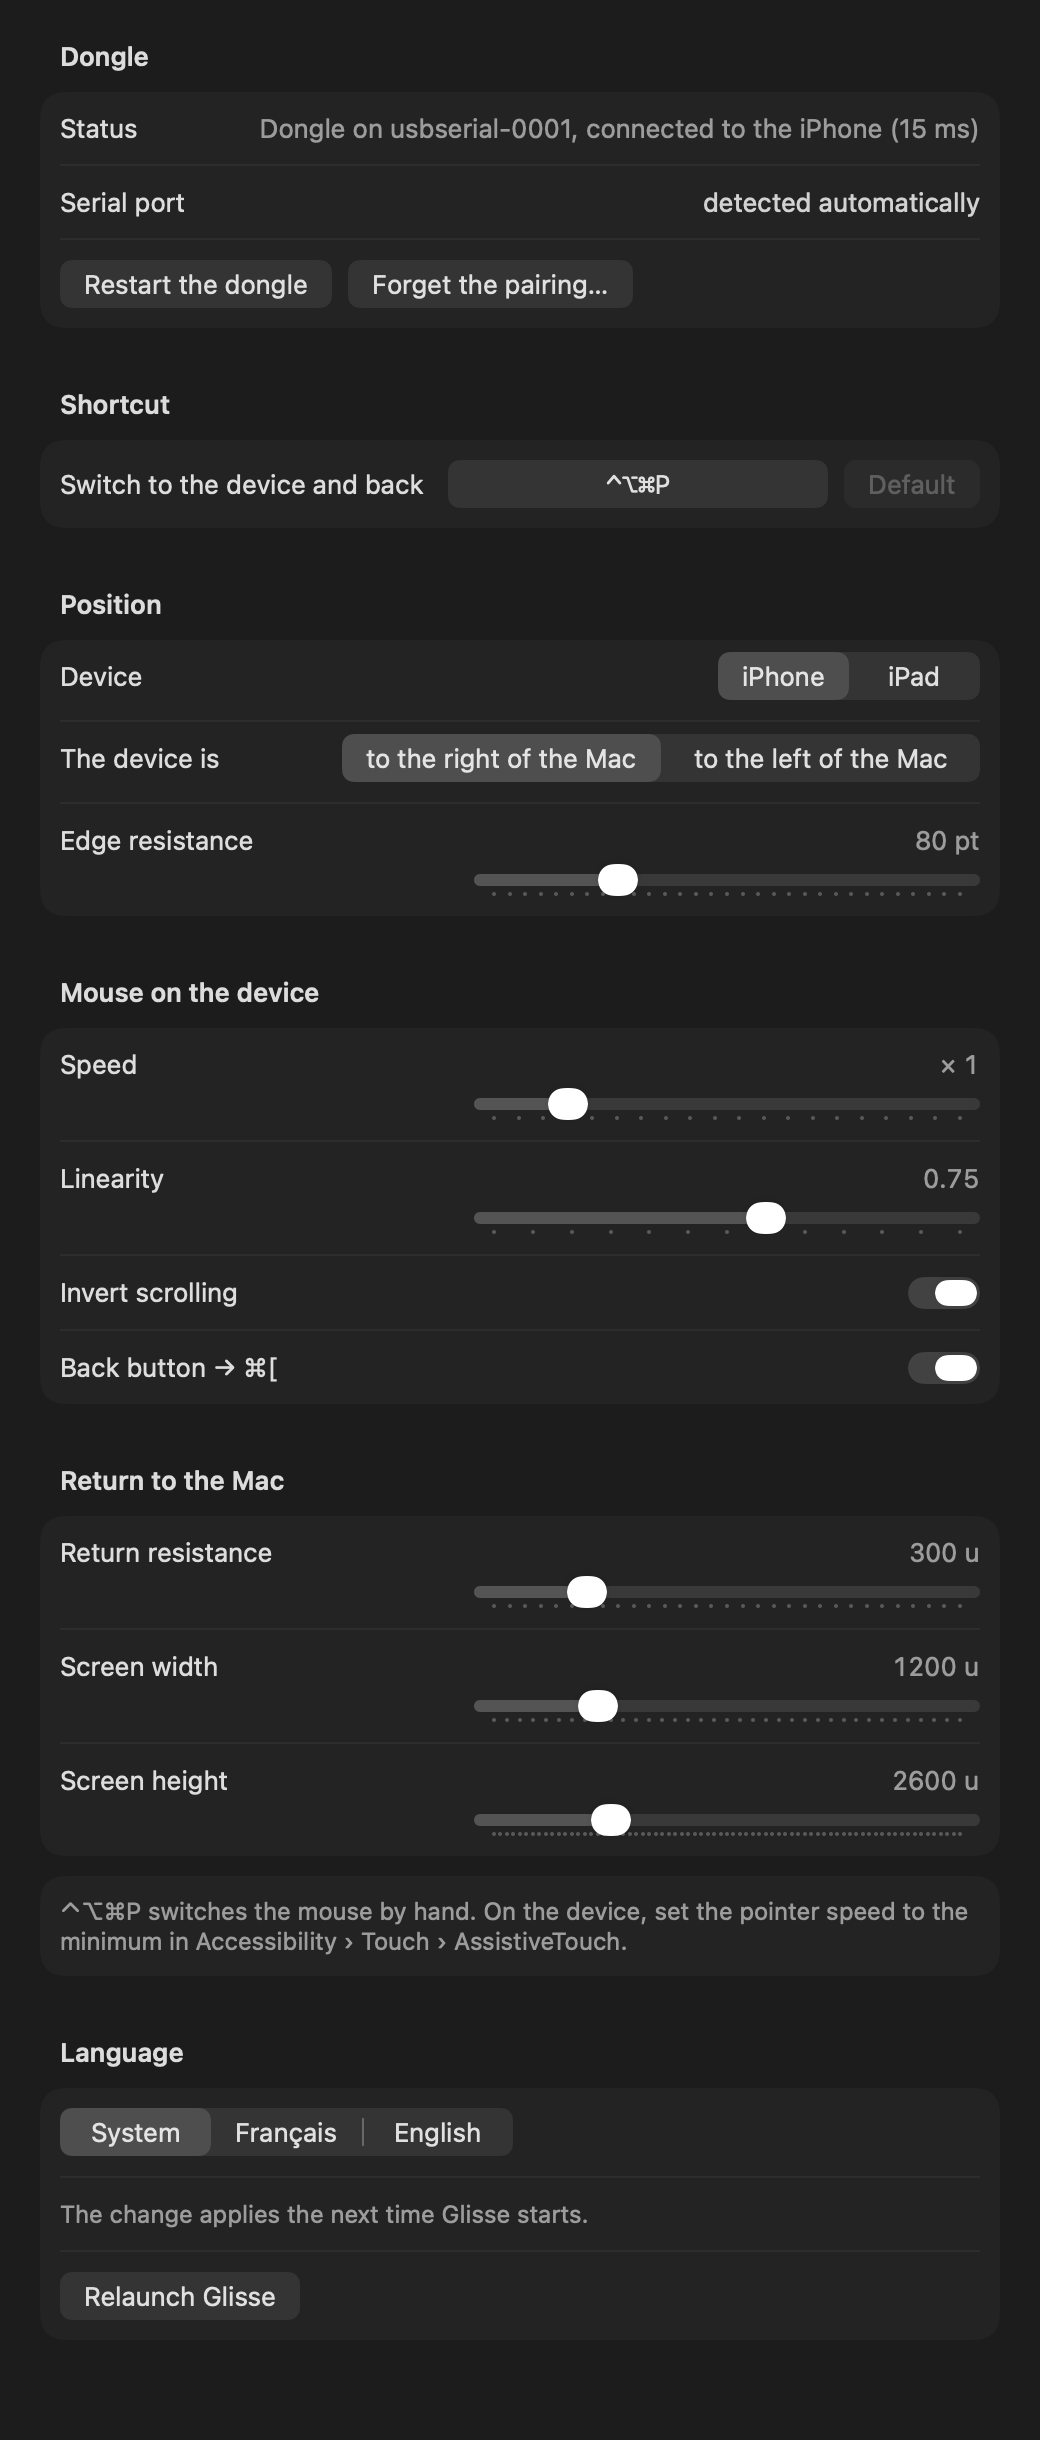
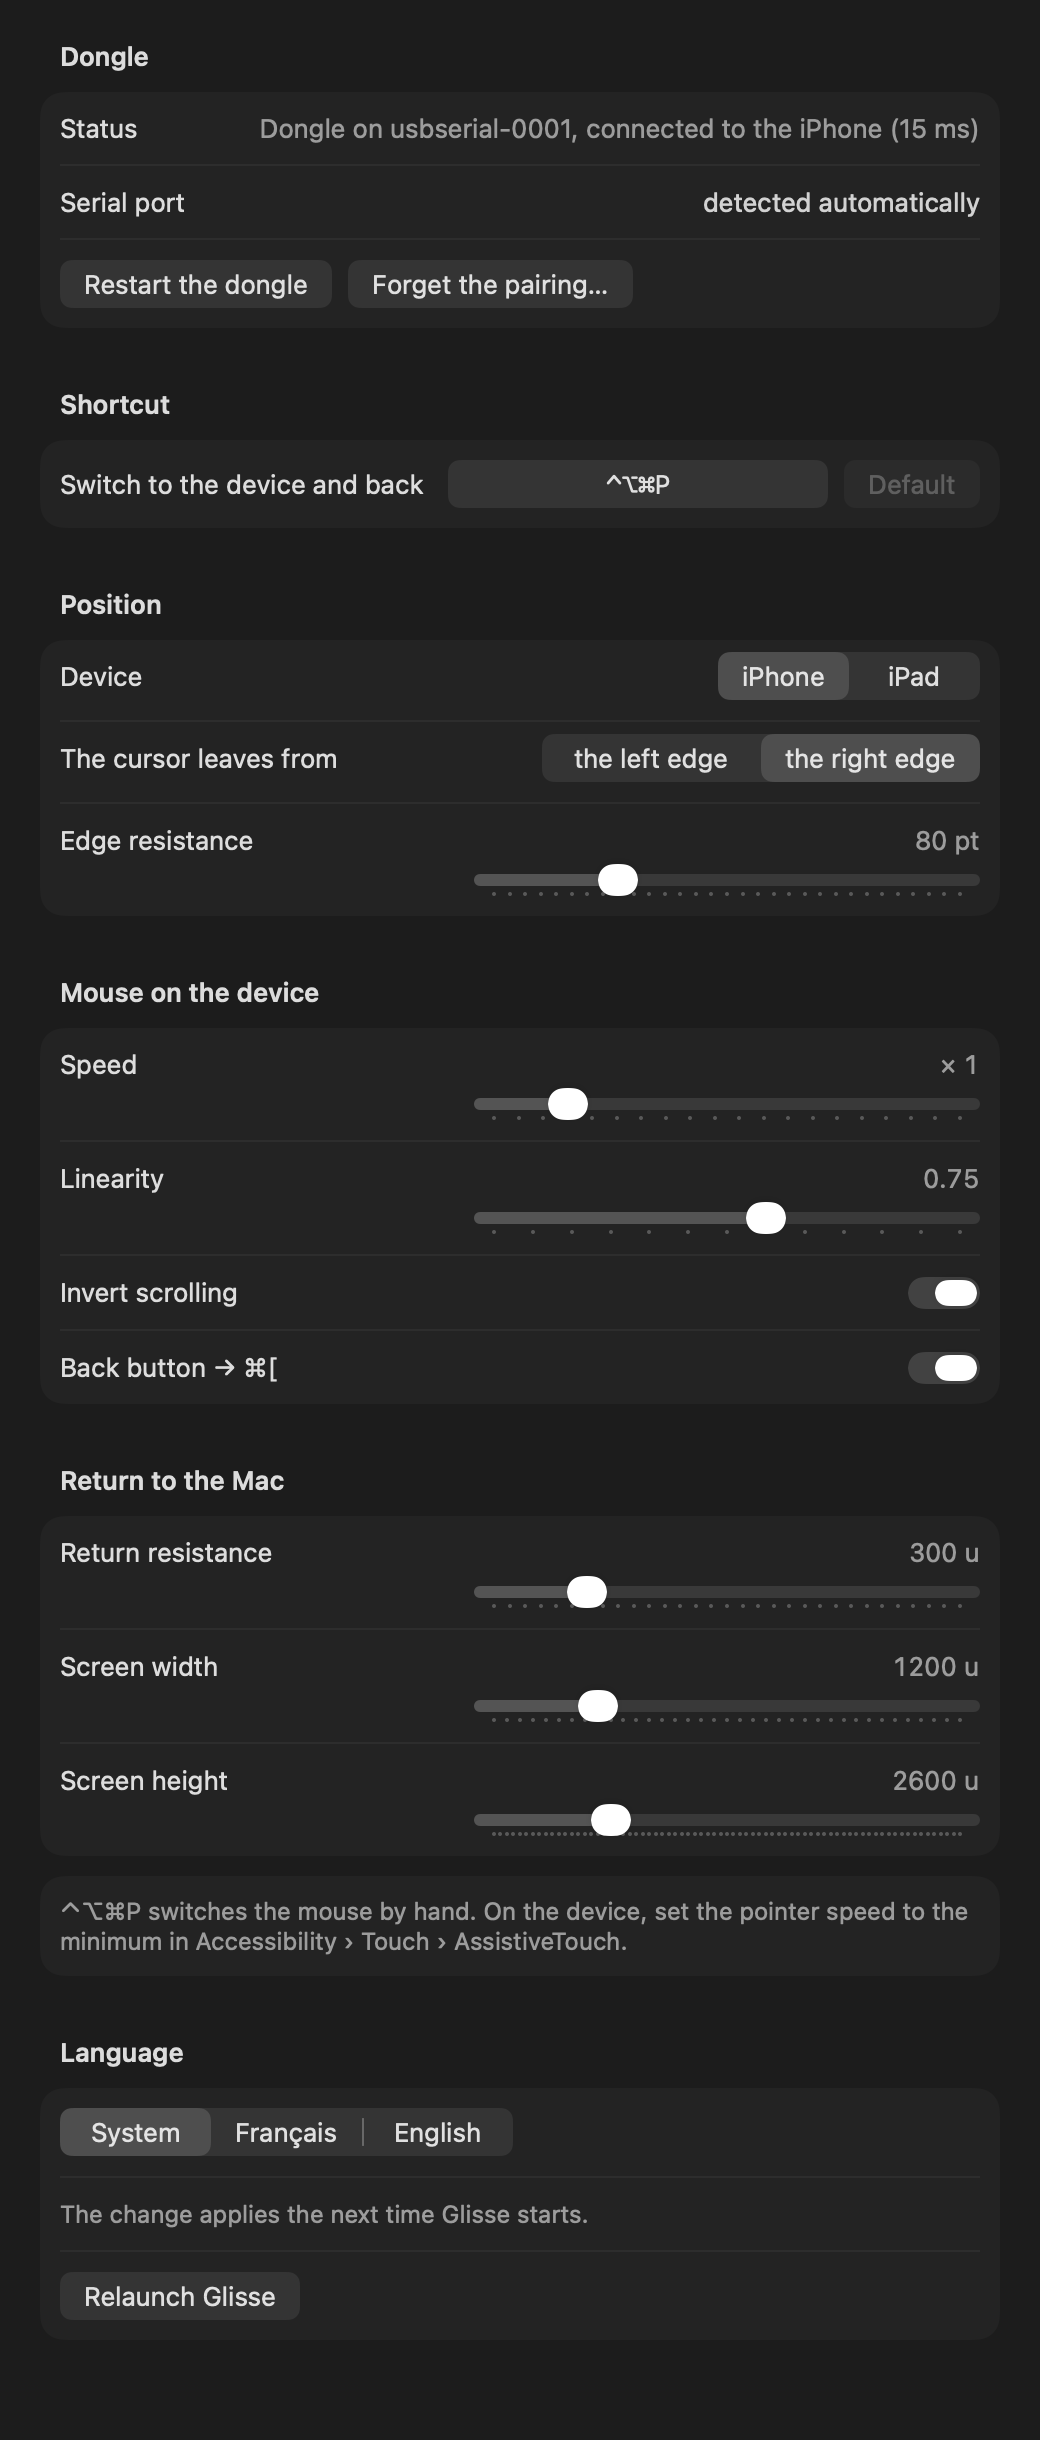
Make the cursor side explicit and switchable from the menu

Changed region(s): [[0.3077, 0.2803, 0.6462, 0.3426], [0.7077, 0.2803, 0.9538, 0.3426]]

diff --git a/mac/Sources/GlisseApp/AppDelegate.swift b/mac/Sources/GlisseApp/AppDelegate.swift
@@ -69,6 +69,22 @@ final class AppDelegate: NSObject, NSApplicationDelegate {
         toggle.target = self
         toggle.isEnabled = controller.canCross || controller.side == .phone
         menu.addItem(toggle)
+
+        let edgeTitle = NSLocalizedString("Sortie du curseur", comment: "")
+        let edgeItem = NSMenuItem(title: edgeTitle, action: nil, keyEquivalent: "")
+        let edgeMenu = NSMenu(title: edgeTitle)
+        for edge in [Edge.left, Edge.right] {
+            let title = edge == .left
+                ? NSLocalizedString("Bord gauche", comment: "")
+                : NSLocalizedString("Bord droit", comment: "")
+            let item = NSMenuItem(title: title, action: #selector(chooseEdge(_:)), keyEquivalent: "")
+            item.target = self
+            item.representedObject = edge.rawValue
+            item.state = Preferences.shared.edge == edge ? .on : .off
+            edgeMenu.addItem(item)
+        }
+        edgeItem.submenu = edgeMenu
+        menu.addItem(edgeItem)
         menu.addItem(.separator())
 
         let settings = NSMenuItem(title: NSLocalizedString("Réglages…", comment: ""), action: #selector(openSettings), keyEquivalent: ",")
@@ -92,6 +108,14 @@ final class AppDelegate: NSObject, NSApplicationDelegate {
     }
 
     @objc private func toggleSide() { controller.toggle() }
+
+    /// Changer le bord de sortie depuis la barre des menus, sans ouvrir les Réglages.
+    @objc private func chooseEdge(_ sender: NSMenuItem) {
+        guard let raw = sender.representedObject as? String, let edge = Edge(rawValue: raw) else { return }
+        Preferences.shared.edge = edge
+        controller.applyPreferences()
+        refresh()
+    }
 
     @objc private func openSettings() {
         settingsWindow.show(SettingsActions(

diff --git a/mac/Sources/GlisseApp/SettingsView.swift b/mac/Sources/GlisseApp/SettingsView.swift
@@ -71,9 +71,11 @@ struct SettingsView: View {
                     Text("iPad").tag(Device.iPad.rawValue)
                 }
                 .pickerStyle(.segmented)
-                Picker("L'appareil est", selection: $edge) {
-                    Text("à droite du Mac").tag(Edge.right.rawValue)
-                    Text("à gauche du Mac").tag(Edge.left.rawValue)
+                // Ce que l'option change vraiment : le bord du Mac que le curseur franchit. L'appareil,
+                // lui, se trouve de ce côté-là et reçoit le pointeur par son bord opposé.
+                Picker("Le curseur sort par", selection: $edge) {
+                    Text("le bord gauche").tag(Edge.left.rawValue)
+                    Text("le bord droit").tag(Edge.right.rawValue)
                 }
                 .pickerStyle(.segmented)
                 slider("Résistance au bord", value: $resistance, in: 0...300, step: 10,

diff --git a/mac/Sources/GlisseApp/Controller.swift b/mac/Sources/GlisseApp/Controller.swift
@@ -76,7 +76,13 @@ final class Controller {
 
     /// À rappeler quand un réglage change.
     func applyPreferences() {
-        edgeGuard = EdgeGuard(edge: prefs.edge, resistance: prefs.resistance)
+        let newEdge = prefs.edge
+        // Changer de côté pendant que la souris est sur l'appareil laisserait le curseur virtuel sur
+        // l'ancienne géométrie : on rentre d'abord, et le nouveau côté sert au passage suivant.
+        if side == .phone, newEdge != edgeGuard.edge {
+            returnToMac(yFraction: cursor.position.y / cursor.size.height, pointerAtMacSide: false)
+        }
+        edgeGuard = EdgeGuard(edge: newEdge, resistance: prefs.resistance)
         response = Response(gain: prefs.gain, linearity: prefs.linearity)
         hotKey = prefs.hotKey
         // Changer la taille ou le côté en plein vol perdrait la position estimée : on ne remplace le curseur

diff --git a/README.md b/README.md
@@ -124,7 +124,7 @@ Menu › **Settings…** (⌘,). Every change applies immediately.
 | --- | --- |
 | **Shortcut** | Click the button, press the combination you want. It needs ⌃, ⌥ or ⌘ (or a function key); Esc cancels. |
 | **Device** | iPhone or iPad. Sets the starting screen size for the pointer; fine-tune it with the width and height sliders. |
-| **Device side** | Left or right of the Mac. This is the edge of the Mac screen the cursor leaves from. |
+| **Cursor edge** | Which edge of the Mac the cursor leaves from. Left means the device sits on the left and the pointer enters it from its right side. Also in the menu bar under **Cursor edge**. |
 | **Edge resistance** | How hard to push against the edge before crossing, so you don't fall onto the iPhone by accident. |
 | **Speed** | Mouse units sent to the iPhone per point moved on the Mac. |
 | **Linearity** | At 1 the motion is proportional. Below, small moves are amplified and big ones held back, to compensate for the acceleration iOS adds on top of macOS's. 0.75 by default. |
